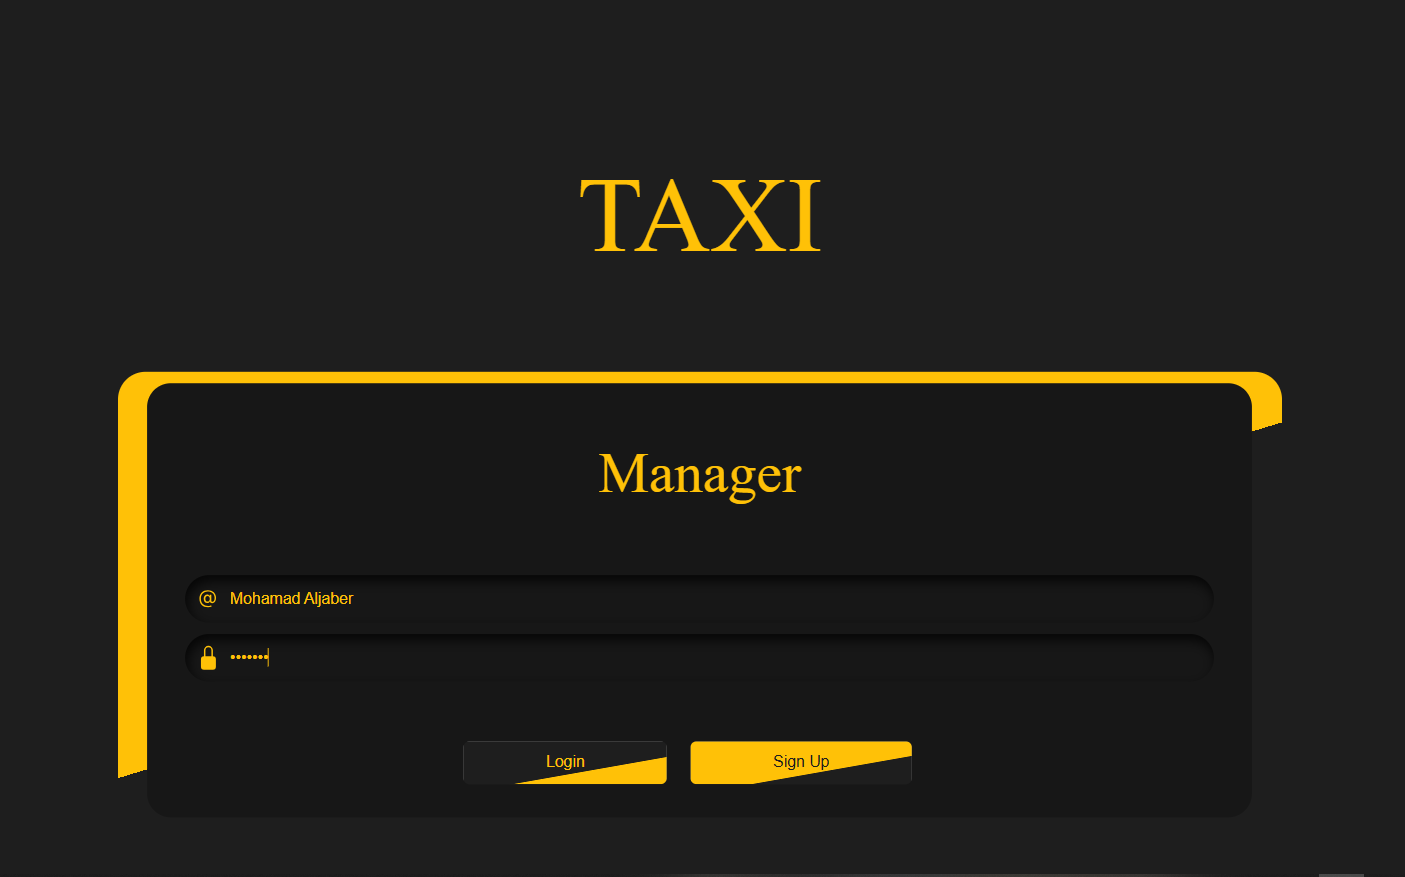
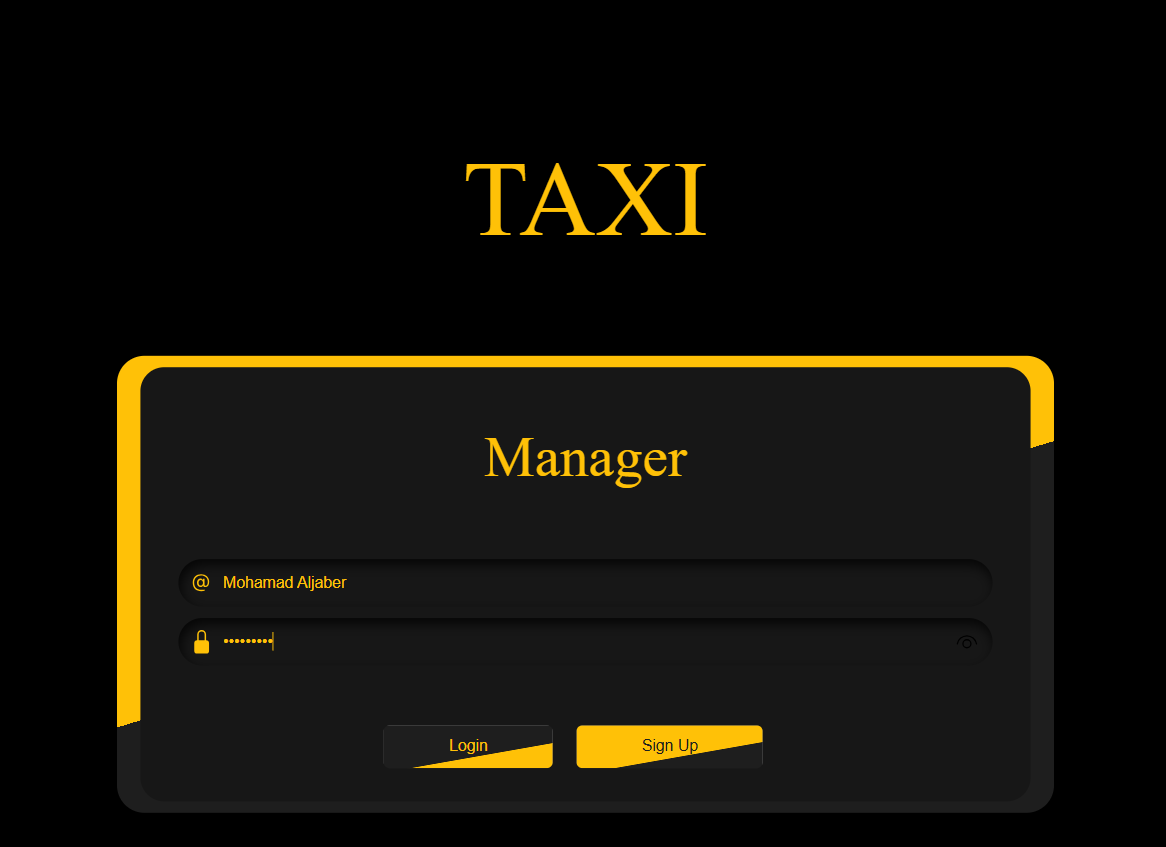
add photo Desing project

diff --git a/css/style.css b/css/style.css
@@ -6,7 +6,7 @@
 body {
   left: 50%;
   top: 100%;
-  background-color: #1e1e1e;
+  background-color: black;
   display: flex;
   flex-direction: column;
 }
@@ -25,6 +25,7 @@ body {
   width: 80%;
   margin: auto;
   transform: translateY(40%);
+  margin-bottom: 300px;
 }
 
 .card2 {
